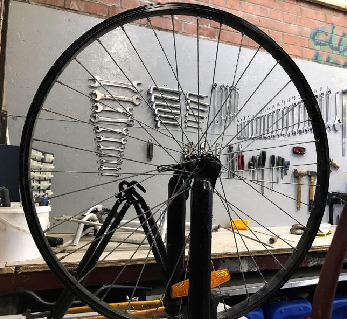
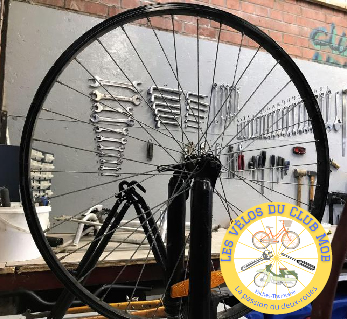
2022_08_22
Modifs des assos village

Changed region(s): [[0.634, 0.6207, 0.9798, 0.9875]]

diff --git a/village.html b/village.html
@@ -174,8 +174,8 @@
 				<div class="col-lg-3 col-md-3 col-12 wow fadeInUp" data-wow-delay=".2s">
                     <!-- Start Single Feature -->
                     <div class="single-featuer" data-bs-toggle="modal" data-bs-target="#artiste3">
-                        <img src="assets/images/village/village-03-01.jpg" alt="Club Mob">
-                        <h3>Club Mob</h3>
+                        <img src="assets/images/village/village-03-01.jpg" alt=" Les vélos du Club Mob">
+                        <h3> Les vélos du Club Mob</h3>
                     </div>
                 </div>
 				<div class="col-lg-3 col-md-3 col-12 wow fadeInUp" data-wow-delay=".2s">
@@ -342,11 +342,11 @@ L’Association Droit au vélo (ADAV) a pour but de promouvoir et faciliter les 
   <div class="modal-dialog">
     <div class="modal-content">
       <div class="modal-header">
-        <h5 class="modal-title" >Club Mob</h5>
+        <h5 class="modal-title" >Les vélos du Club Mob</h5>
         <button type="button" class="btn-close" data-bs-dismiss="modal" aria-label="Close"></button>
       </div>
       <div class="modal-body">
-Le Club Mob sensibilise et accompagne le grand public à mieux comprendre l’écomobilité en proposant des ateliers de self réparation de son vélo. Alors, viens avec ton vélo au Village des Vents Contraires et le Club Mob sera là pour t’accompagner à l’entretenir et le réparer sur place ! 
+Les vélos du Club Mob sensibilise et accompagne le grand public à mieux comprendre l’écomobilité en proposant des ateliers de self réparation de son vélo. Alors, viens avec ton vélo au Village des Vents Contraires et les vélos du Club Mob seront là pour t’accompagner à l’entretenir et le réparer sur place ! 
       </div>
       <div class="modal-footer">
         <button type="button" class="btn btn-secondary" data-bs-dismiss="modal">Fermer</button>
